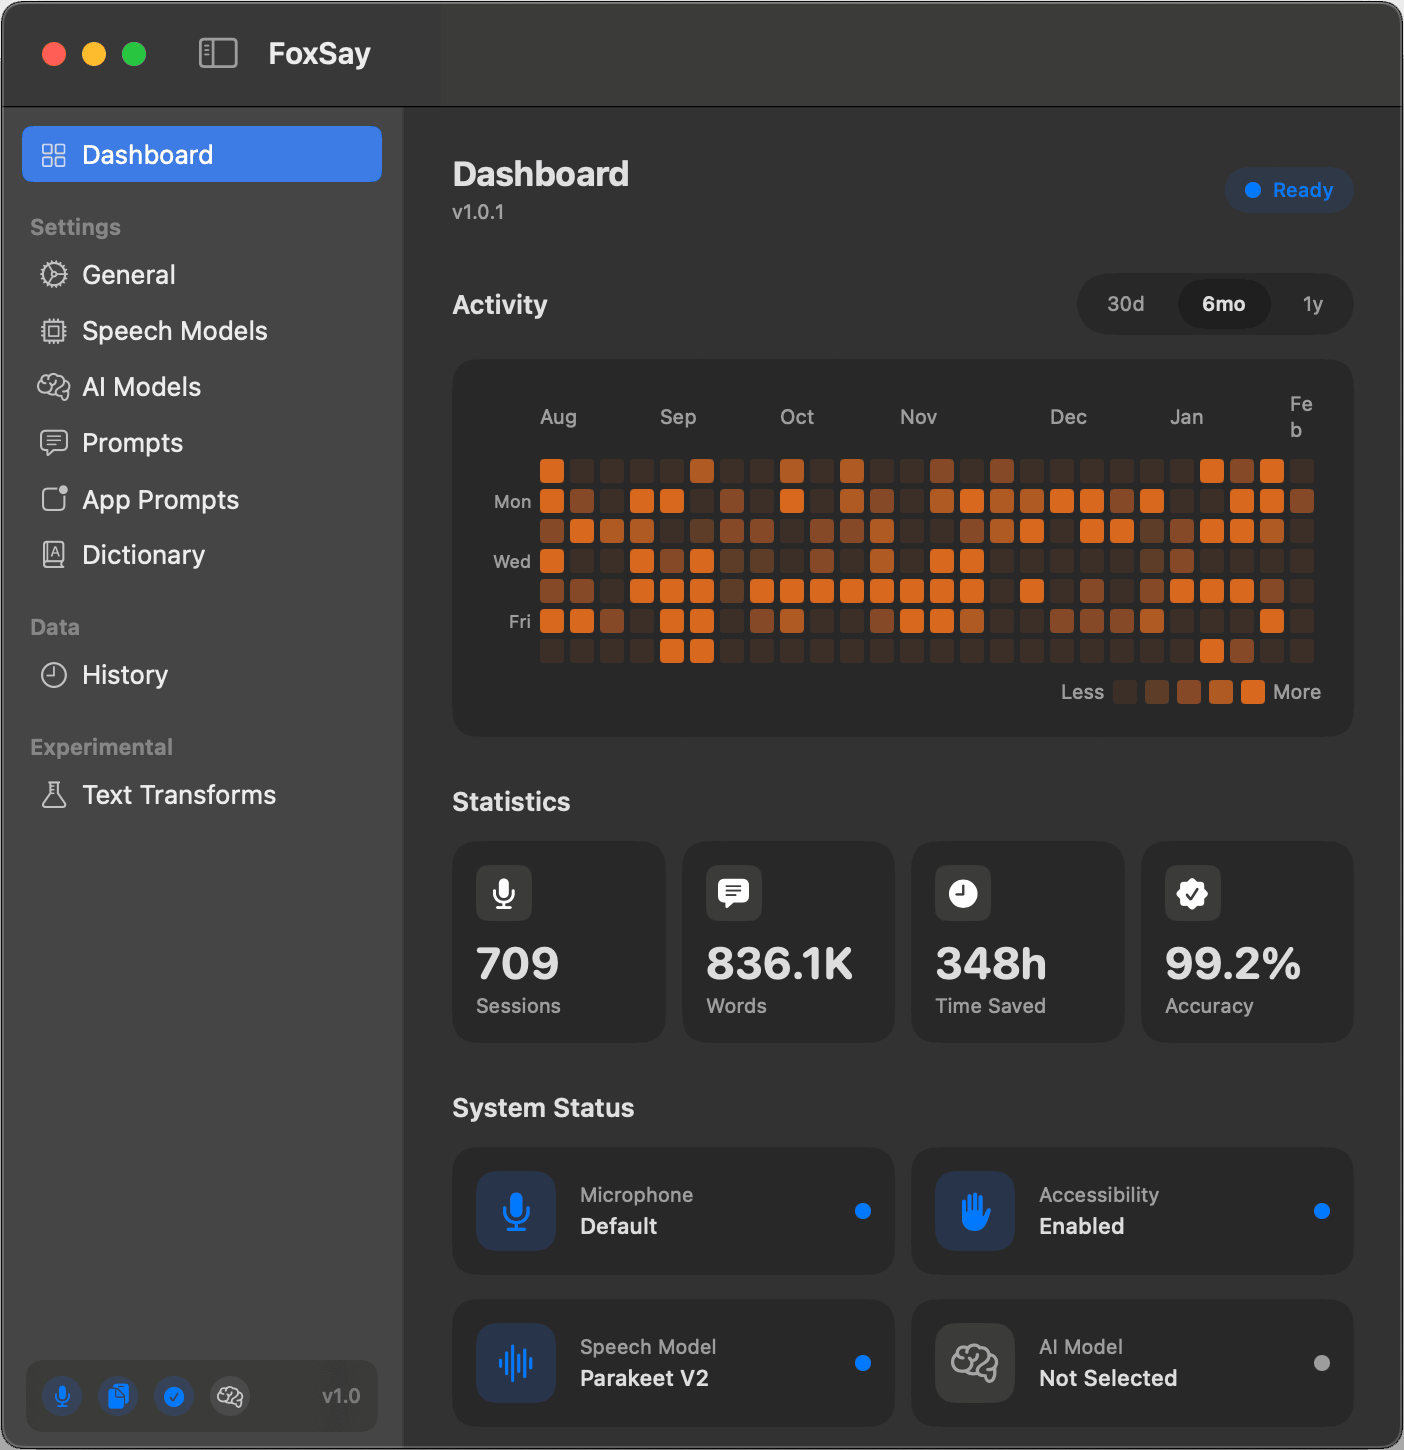
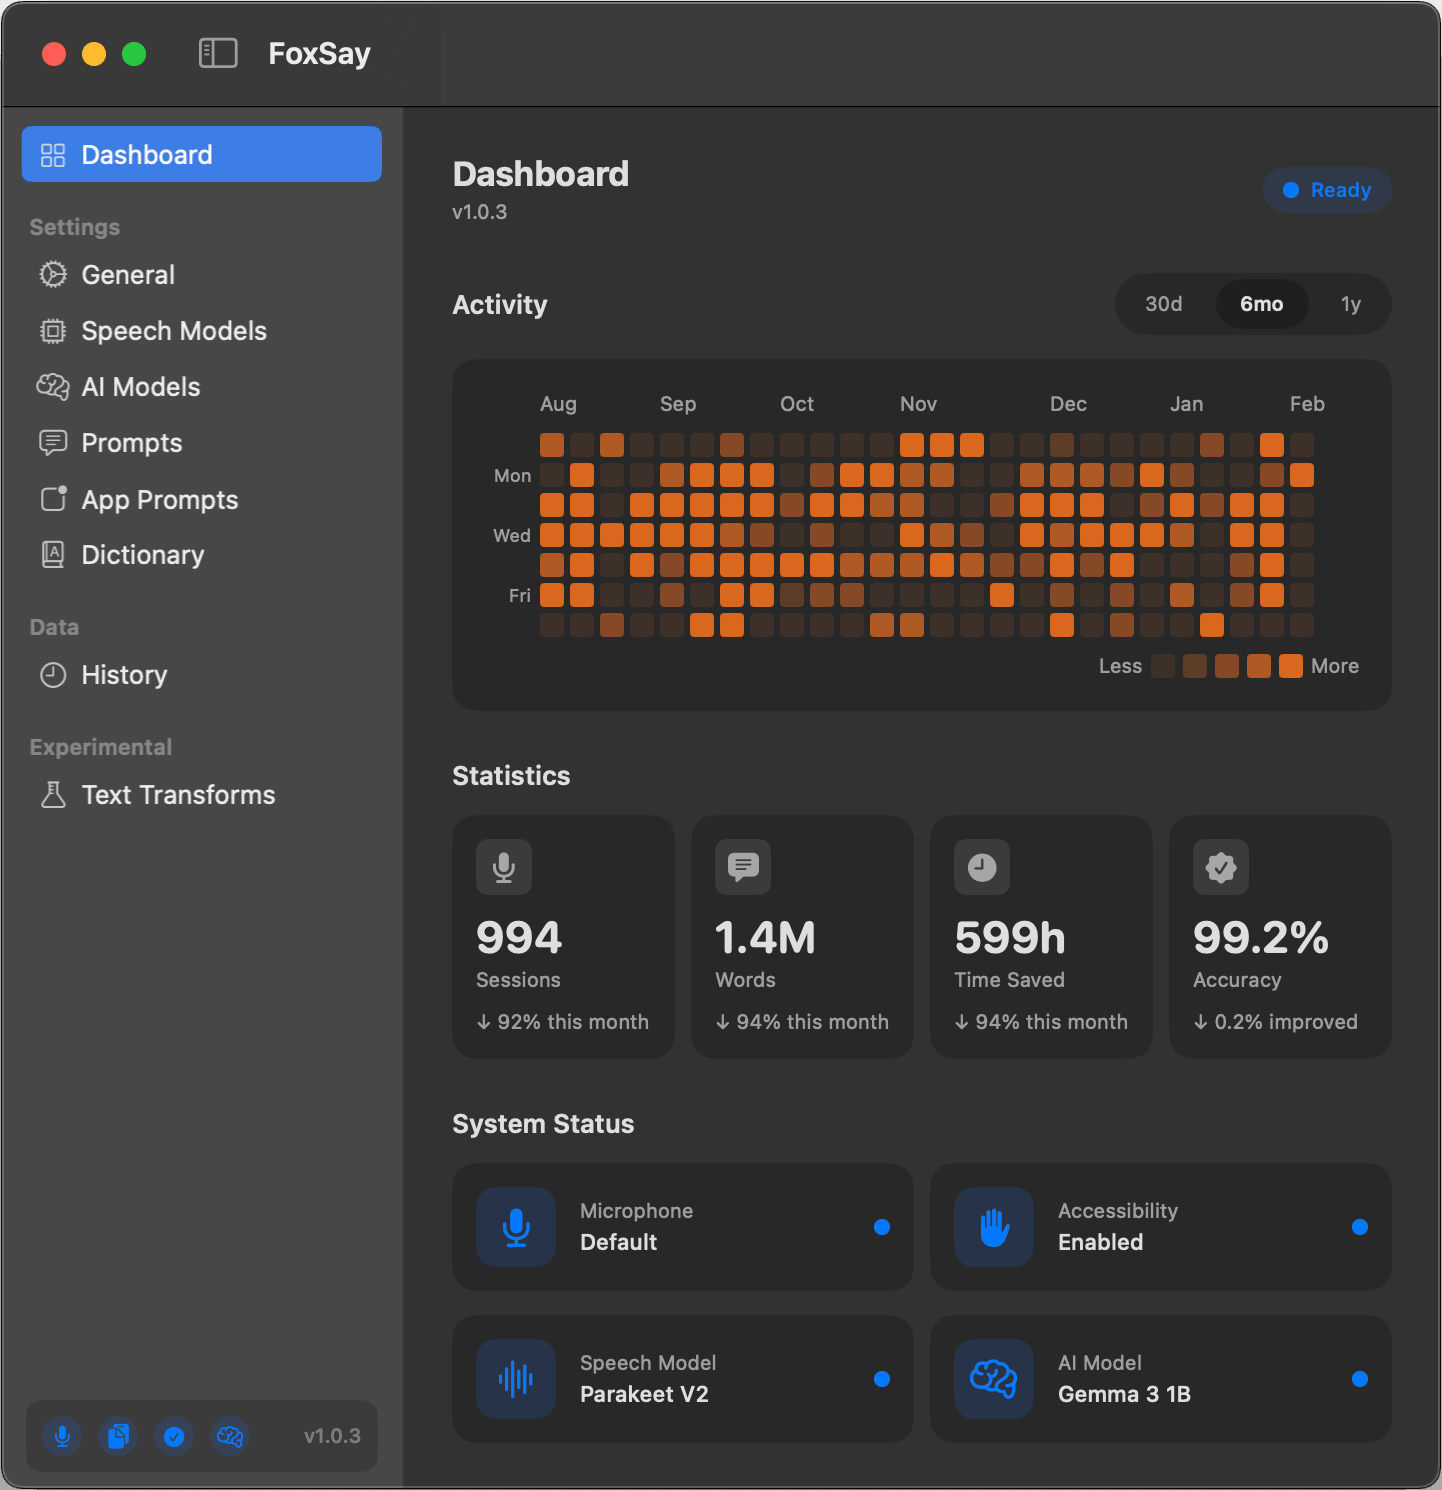
activity - removed 30day + fixed 1yr scaling

diff --git a/FoxSayPackage/Sources/FoxSayFeature/Views/Dashboard/ActivityGridView.swift b/FoxSayPackage/Sources/FoxSayFeature/Views/Dashboard/ActivityGridView.swift
@@ -7,9 +7,28 @@ struct ActivityGridView: View {
 
     @State private var hoveredCell: (day: Int, week: Int)? = nil
 
-    private let cellSize: CGFloat = 12
-    private let cellSpacing: CGFloat = 3
     private let dayLabels = ["Sun", "Mon", "Tue", "Wed", "Thu", "Fri", "Sat"]
+
+    // Target width for the grid (based on 6-month view as baseline)
+    private let targetGridWidth: CGFloat = 390
+
+    // Max cell size to prevent 30-day view from being too tall
+    private let maxCellSize: CGFloat = 12
+    private let maxCellSpacing: CGFloat = 3
+
+    // Dynamic cell size based on period
+    private var cellSize: CGFloat {
+        let weeks = CGFloat(period.weeks)
+        let calculated = (targetGridWidth / weeks) * 0.8
+        return min(calculated, maxCellSize)
+    }
+
+    // Dynamic spacing based on period
+    private var cellSpacing: CGFloat {
+        let weeks = CGFloat(period.weeks)
+        let calculated = (targetGridWidth / weeks) * 0.2
+        return min(calculated, maxCellSpacing)
+    }
 
     var body: some View {
         VStack(alignment: .leading, spacing: 8) {

diff --git a/FoxSayPackage/Sources/FoxSayFeature/Views/Dashboard/PeriodSelectorView.swift b/FoxSayPackage/Sources/FoxSayFeature/Views/Dashboard/PeriodSelectorView.swift
@@ -1,6 +1,6 @@
 import SwiftUI
 
-/// Segmented period selector for dashboard (30d | 6mo | 1y)
+/// Segmented period selector for dashboard (6mo | 1y)
 struct PeriodSelectorView: View {
     @Binding var selectedPeriod: DashboardPeriod
 
@@ -40,7 +40,7 @@ struct PeriodSelectorView: View {
 
 #Preview {
     struct PreviewWrapper: View {
-        @State var period: DashboardPeriod = .thirtyDays
+        @State var period: DashboardPeriod = .sixMonths
 
         var body: some View {
             VStack(spacing: 20) {
